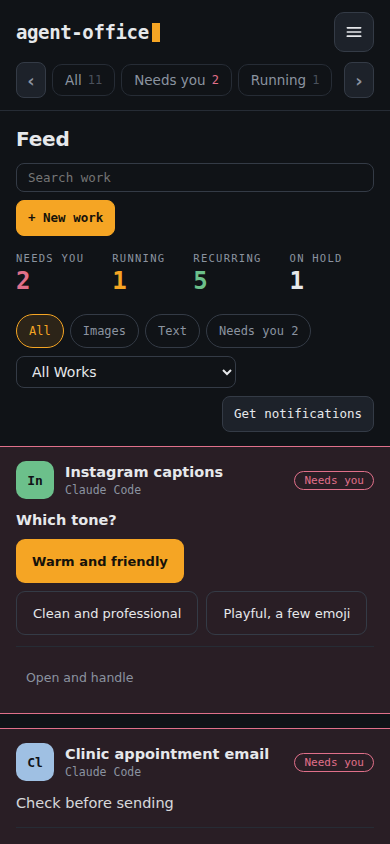
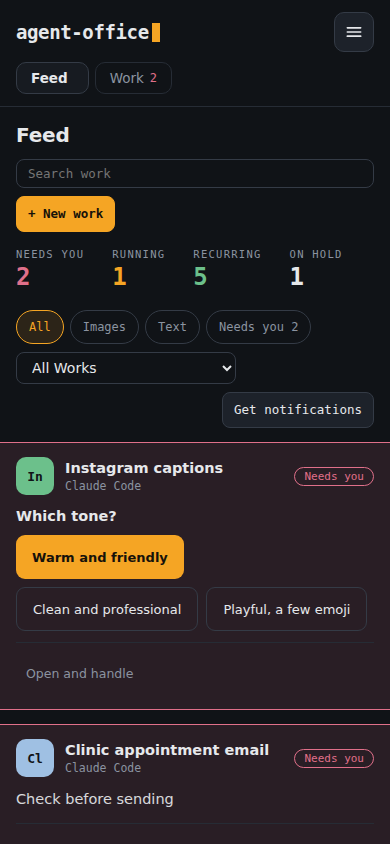
README: Feed and Work sidebar, Change AI with its handoff check; fresh screenshots
The board, timeline and feed pictures show the new sidebar and the Work
tabs. The Work detail is again a real Codex run of the sample sales-log
task on a fresh install, in each language. Who runs the work now says the
owner can move a Work between runs and what Office checks for it; AGENTS.md
records that owner decision.

diff --git a/README.ko.md b/README.ko.md
@@ -41,7 +41,7 @@ AI 앱에 일을 맡길수록 결과는 흩어집니다. 아침 브리핑은 텔
 
 ## 화면으로 보기
 
-**업무 보드**: 한 줄로 업무를 맡기고, 상태별로 모아 봅니다.
+**업무 보드**: 한 줄로 업무를 맡기고, 상태별로 모아 봅니다. 사이드바에는 피드와 업무만 있고, 전체·확인 필요·실행 중 같은 분류는 업무 화면 안의 탭입니다.
 
 ![확인 필요·실행 중·반복 실행·보류·종료로 나뉜 업무 보드](docs/images/work-overview.png)
 
@@ -167,7 +167,8 @@ Pack을 먼저 만들 필요는 없습니다. LLM이 요청을 구조화하고, 
 ## 누가 실행하나요?
 
 업무는 맡길 때 고른 AI 앱(Codex 또는 Claude Code, 모델과 추론 강도 포함)이 그 앱의 설정·스킬·MCP 서버를 그대로 써서 실행합니다.
-한 업무는 처음부터 끝까지 그 앱이 맡습니다. 로그인이 풀리거나 사용량이 바닥나면 업무가 기다리고, 다른 앱으로 넘어가지 않습니다.
+로그인이 풀리거나 사용량이 바닥나면 업무는 기다리고, Office가 알아서 다른 앱으로 넘기지 않습니다.
+직접 옮기고 싶으면 실행과 실행 사이에 업무 상세의 앱 이름 옆 **바꾸기**를 누르세요. Office가 지난 실행 기록을 읽어 새 앱에 없는 것(Codex 내장 이미지 생성, MCP 서버, 스킬)을 찾아 보여 주고, 인계 지침 초안을 함께 보냅니다. 예를 들면 "이미지만 `codex exec`에 맡긴다" 같은 지침입니다. 다음 실행은 같은 업무 폴더와 기록으로 새 앱에서 새 세션으로 시작합니다.
 
 - **LLM**: 업무를 나누고, 처음 보는 상황을 판단하고, 다시 계획합니다.
 - **Jev(선택)**: Pack에 정의된 짧은 판단을 처리합니다.
@@ -211,7 +212,7 @@ npm test
 
 Node.js **22.22.0**, npm **11.11.0**을 사용합니다. 기본 검사는 장시간 soak를 제외합니다.
 
-README 화면은 `node scripts/docs/capture-readme-feed.mjs ko|en`(보드·타임라인·피드, 예시 데이터)과 `scripts/docs/capture-readme-ui.mjs`(업무 상세)로 다시 만듭니다.
+README 화면은 `node scripts/docs/capture-readme-feed.mjs ko|en`(보드·타임라인·피드, 예시 데이터)으로 다시 만듭니다. 업무 상세는 새로 설치한 상태(`agent-office connect --state-root <새 폴더>`)에서 예시 판매 기록 업무를 실제로 돌린 화면입니다.
 
 [Apache License 2.0](LICENSE) · © 2026 SHIPIT LABS. 연결하는 모델·브라우저·외부 서비스의 라이선스와 이용 조건은 별도입니다.
 

diff --git a/README.md b/README.md
@@ -41,7 +41,7 @@ So we built the feed. It puts the results of every Work in one stream, newest fi
 
 ## A look inside
 
-**Work board** — describe the work in one line and follow it by status.
+**Work board** — describe the work in one line and follow it by status. The sidebar holds Feed and Work; All, Needs you, Running and the other views are tabs inside Work.
 
 ![Work board with Needs you, Running, Recurring, On hold and Ended columns](docs/images/en/work-overview.png)
 
@@ -167,7 +167,8 @@ Work you repeat often can be saved, once verified, as a named and versioned cust
 ## Who runs the work?
 
 Each Work runs on the AI app chosen when it was started (Codex or Claude Code, with a model and reasoning effort), using that app's own settings, skills and MCP servers.
-That app keeps the Work for its whole life: when its sign-in or allowance runs out, the Work waits; it never moves to another app.
+That app keeps the Work: when its sign-in or allowance runs out, the Work waits, and Office never moves it to another app by itself.
+To move a Work yourself, use **Change** next to the app name on the Work detail, between runs. Office reads the earlier runs for what the new app lacks (Codex's built-in image generation, an MCP server, a skill) and drafts a handoff direction that goes with the change, such as leaving only the pictures to `codex exec`. The next run starts a new session on the new app with the same Work folder and records.
 
 - **LLM**: splits the work, handles unfamiliar situations, and replans.
 - **Jev (optional)**: short, typed decisions defined by the Pack.
@@ -211,7 +212,7 @@ npm test
 
 Use Node.js **22.22.0** and npm **11.11.0**. The default test suite excludes long soak tests.
 
-README pictures are made with `node scripts/docs/capture-readme-feed.mjs en|ko` (board, timeline and feed with sample data) and `scripts/docs/capture-readme-ui.mjs` (Work detail).
+README pictures are made with `node scripts/docs/capture-readme-feed.mjs en|ko` (board, timeline and feed with sample data). The Work detail is a real run of the sample sales-log task on a fresh install (`agent-office connect --state-root <new folder>`).
 
 [Apache License 2.0](LICENSE) · © 2026 SHIPIT LABS. Connected models, browsers, and services have their own licenses and terms.
 

diff --git a/AGENTS.md b/AGENTS.md
@@ -23,9 +23,12 @@ client's own agent (Codex `exec --json` or Claude Code `-p` stream-json) with th
 owner's own settings, skills, plugins and MCP servers, in an Office-owned Work
 folder (src/work/client-run.ts). The owner chooses the client, model and
 reasoning effort for each Work at intake (onboarding only sets the defaults).
-One client per Work for its whole life, Office's own judgments for the Work
-included: no routing or session handoff between clients (a client calling
-another CLI by itself is its own behaviour). Permissions default to everything allowed, as in
+One client per Work, Office's own judgments for the Work included: Office never
+routes a Work or hands its session to another client by itself. Only the owner
+moves a Work to the other client, between runs (owner 2026-10-11; the change
+sheet lists what the earlier runs used that the new client lacks and drafts a
+handoff direction); the next run starts a new session there. A client calling
+another CLI by itself is its own behaviour. Permissions default to everything allowed, as in
 the client app; Office does not approve actions one by one. Office records the
 events, pauses between turns, hands a new direction to the same client session
 as it is (no Office replanning, owner 2026-10-04), schedules and delivers. A client run is complete when its client reports each
